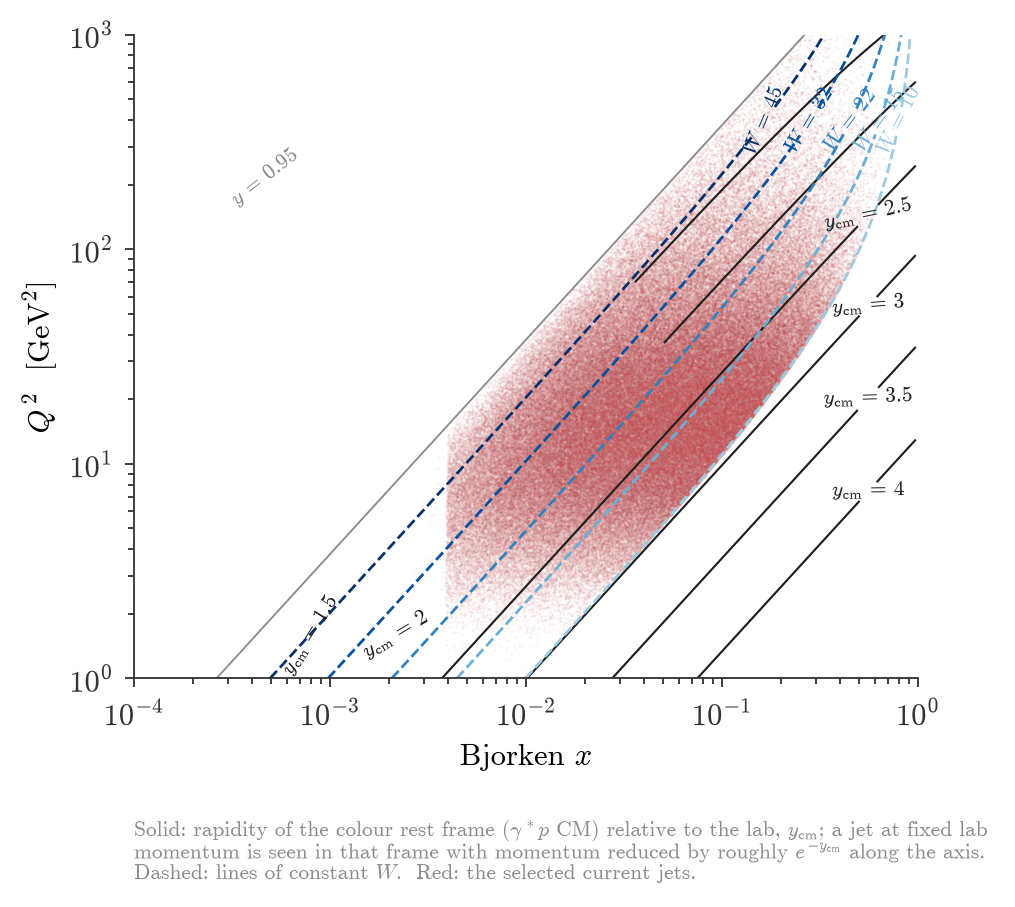
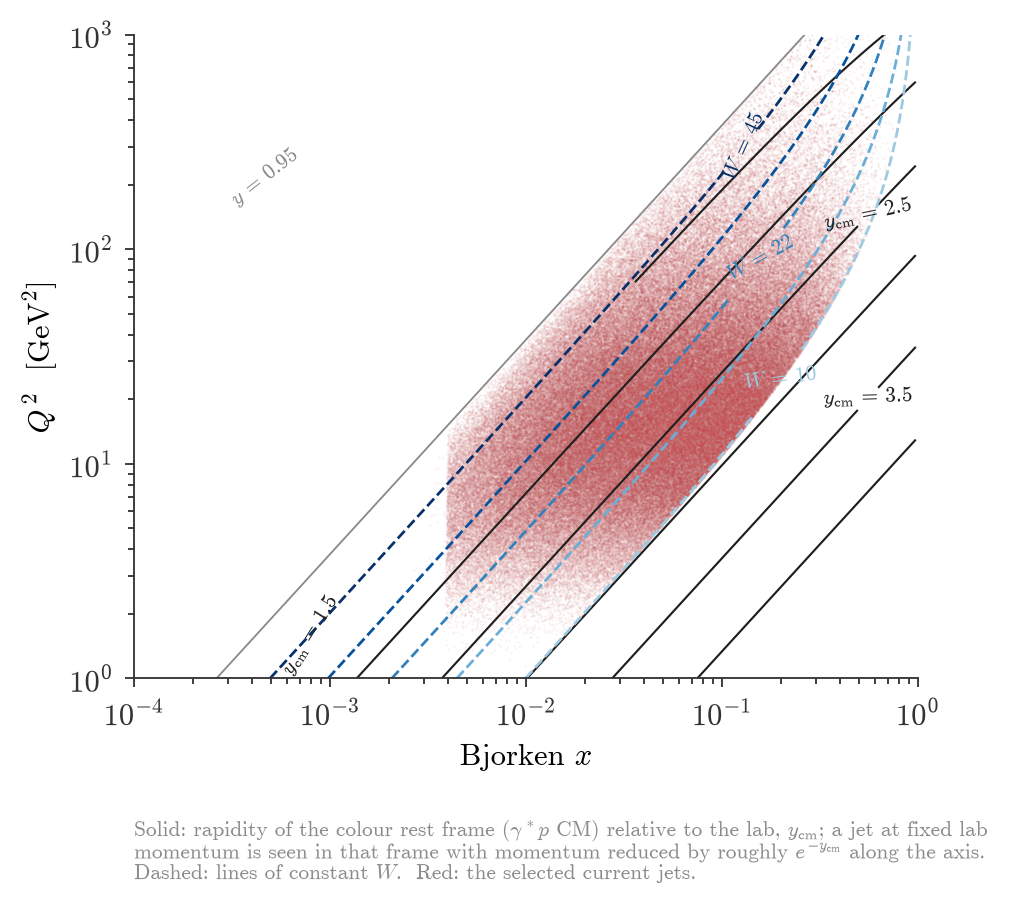
Add a label-collision check to every figure and fix the clashes found
check_labels() compares rendered Text bounding boxes at save time and warns on
overlaps; captions are exempt. Fixed the three it found: soft-drop numbers now
sit beside their markers on the ladder, and the boost map labels only a subset
of contours, placed inside the axes. All 25 figures pass.

Claude-Session: https://claude.ai/code/session_01GCGZdhXzCgSVDHydZwuskM

diff --git a/make_figures.py b/make_figures.py
@@ -172,12 +172,54 @@ class EndLabels:
 
 def caption(ax, text, fontsize=7.5):
     """Small explanatory note under the axes — the figure explains itself."""
-    ax.text(0.0, -0.22, text, transform=ax.transAxes, fontsize=fontsize,
-            color=MUTED, va="top", ha="left", wrap=True)
+    t = ax.text(0.0, -0.22, text, transform=ax.transAxes, fontsize=fontsize,
+                color=MUTED, va="top", ha="left", wrap=True)
+    t._is_caption = True
+
+
+def check_labels(fig, name, frac=0.30):
+    """
+    Warn about overlapping text in a finished figure.
+
+    Compares the rendered bounding boxes of every Text artist that carries ink
+    and reports any pair overlapping by more than ``frac`` of the smaller box.
+    Caption text is excluded: it is a paragraph below the axes and wraps.
+    """
+    fig.canvas.draw()
+    r = fig.canvas.get_renderer()
+    items = []
+    for ax in fig.axes:
+        texts = (ax.texts + [ax.xaxis.label, ax.yaxis.label, ax.title]
+                 + ax.get_xticklabels() + ax.get_yticklabels())
+        for t in texts:
+            if not t.get_visible() or not t.get_text().strip():
+                continue
+            if getattr(t, "_is_caption", False):
+                continue
+            try:
+                bb = t.get_window_extent(renderer=r)
+            except Exception:
+                continue
+            if bb.width > 0 and bb.height > 0:
+                items.append((t.get_text().strip()[:28], bb))
+    hits = []
+    for i in range(len(items)):
+        for j in range(i + 1, len(items)):
+            (ta, ba), (tb, bbx) = items[i], items[j]
+            ox = min(ba.x1, bbx.x1) - max(ba.x0, bbx.x0)
+            oy = min(ba.y1, bbx.y1) - max(ba.y0, bbx.y0)
+            if ox > 0 and oy > 0:
+                small = min(ba.width * ba.height, bbx.width * bbx.height)
+                if ox * oy > frac * small:
+                    hits.append((ta, tb, ox * oy / small))
+    for a, b, f in hits:
+        print(f"    [labels] {name}: {a!r} overlaps {b!r} ({f:.0%})")
+    return hits
 
 
 def save(fig, outdir, name):
     os.makedirs(outdir, exist_ok=True)
+    check_labels(fig, name)
     pdf = os.path.join(outdir, name + ".pdf")
     fig.savefig(pdf, format="pdf", bbox_inches="tight")
     fig.savefig(os.path.join(outdir, name + ".png"), dpi=220, bbox_inches="tight")
@@ -894,7 +936,7 @@ def fig_frame_ladder(beam_paths, outdir, inclusive_slope):
     One panel: how much lab-frame dependence each choice introduces, from the
     inclusive measurement down to the fully frame-defined observable.
     """
-    hemi = [(l, _load_tree(p, "hemisphere", ["W", "Q2", "plab", "n90", "n90_cm", "n_sd", "n_sd_cm"],
+    hemi = [(l, _load_tree(p, "hemisphere", ["W", "Q2", "plab", "n90", "n90_cm", "n_sd", "n_sd_cm", "n_sd_rest"],
                            lambda d: np.isfinite(d["n90"]) & np.isfinite(d["n90_cm"]) & (d["plab"] > 1.0)))
             for l, p in beam_paths]
     labj = [(l, _load_tree(p, "jets_R0p4", ["W", "Q2", "plab", "n90", "n_sd", "lead", "current"],
@@ -903,10 +945,11 @@ def fig_frame_ladder(beam_paths, outdir, inclusive_slope):
     cmj = []
     for l, p in beam_paths:
         d = uproot.open(p)["cmjets"].arrays(
-            ["e_cm", "Q2", "p_lab", "n90_labmom", "n90_cm", "n_sd_lab", "n_sd_cm"], library="np")
+            ["e_cm", "Q2", "p_lab", "n90_labmom", "n90_cm", "n_sd_lab", "n_sd_cm", "n_sd_rest"],
+            library="np")
         d = {"e_hcm": d["e_cm"], "Q2": d["Q2"], "plab": d["p_lab"],
              "n90": d["n90_labmom"], "n90_cm": d["n90_cm"],
-             "n_sd": d["n_sd_lab"], "n_sd_cm": d["n_sd_cm"]}
+             "n_sd": d["n_sd_lab"], "n_sd_cm": d["n_sd_cm"], "n_sd_rest": d["n_sd_rest"]}
         m = np.isfinite(d["n90"]) & np.isfinite(d["n90_cm"])
         cmj.append((l, {k: v[m] for k, v in d.items()}))
 
@@ -918,6 +961,7 @@ def fig_frame_ladder(beam_paths, outdir, inclusive_slope):
         ("$\\gamma^*p$-frame jet,\nfrom lab momenta", _cell_slopes(cmj, "e_hcm", E_CELLS, "n_sd")),
         ("whole current hemisphere,\nfrom frame momenta", _cell_slopes(hemi, "W", BEAM_CELLS_W, "n_sd_cm")),
         ("$\\gamma^*p$-frame jet,\nfrom frame momenta", _cell_slopes(cmj, "e_hcm", E_CELLS, "n_sd_cm")),
+        ("either object,\nin its own rest frame", _cell_slopes(hemi, "W", BEAM_CELLS_W, "n_sd_rest")),
     ]
     sd_by_name = dict(rungs_sd)
     rungs = [
@@ -927,12 +971,23 @@ def fig_frame_ladder(beam_paths, outdir, inclusive_slope):
         ("$\\gamma^*p$-frame jet,\nfrom lab momenta", _cell_slopes(cmj, "e_hcm", E_CELLS, "n90"), INK),
         ("whole current hemisphere,\nfrom frame momenta", _cell_slopes(hemi, "W", BEAM_CELLS_W, "n90_cm"), "#2f6b4f"),
         ("$\\gamma^*p$-frame jet,\nfrom frame momenta", _cell_slopes(cmj, "e_hcm", E_CELLS, "n90_cm"), "#2f6b4f"),
+        ("either object,\nin its own rest frame", [], "#2f6b4f"),
     ]
-    fig, ax = plt.subplots(figsize=(5.4, 3.9))
+    fig, ax = plt.subplots(figsize=(5.4, 4.5))
     ax.axvline(0.0, color=FAINT, lw=0.9, zorder=0)
     ys = np.arange(len(rungs))[::-1]
     for y, (name, sl, col) in zip(ys, rungs):
         sl = np.asarray(sl, float)
+        if len(sl) == 0:
+            sd0 = sd_by_name.get(name)
+            if sd0 is not None and len(sd0):
+                sd0 = np.asarray(sd0, float)
+                m0 = np.median(sd0)
+                ax.plot([sd0.min(), sd0.max()], [y, y], color=SD, lw=1.0, alpha=0.35)
+                ax.plot([m0], [y], marker="s", ms=4.5, color=SD, mec="white", mew=0.6, zorder=3)
+                ax.annotate(f"{m0:+.3f}", (m0, y), xytext=(7, 0), textcoords="offset points",
+                            ha="left", va="center", fontsize=7, color=SD)
+            continue
         med = np.median(sl)
         if len(sl) > 1:
             ax.plot([sl.min(), sl.max()], [y + 0.13, y + 0.13], color=col, lw=1.0, alpha=0.35,
@@ -949,8 +1004,9 @@ def fig_frame_ladder(beam_paths, outdir, inclusive_slope):
             ax.plot([max(msd, -0.60)], [y - 0.17], marker="s", ms=4.5, color=SD, mec="white",
                     mew=0.6, zorder=3)
             txt = f"{msd:+.3f}" + ("  (off scale)" if msd < -0.62 else "")
-            ax.annotate(txt, (max(msd, -0.60), y - 0.17), xytext=(0, -13),
-                        textcoords="offset points", ha="center", fontsize=7, color=SD)
+            ax.annotate(txt, (max(msd, -0.60), y - 0.17), xytext=(7, 0),
+                        textcoords="offset points", ha="left", va="center",
+                        fontsize=7, color=SD)
     ax.set_yticks(ys)
     ax.set_yticklabels([r[0] for r in rungs], fontsize=7.5)
     ax.tick_params(axis="y", length=0)
@@ -1323,15 +1379,19 @@ def fig_boost_map(jets, outdir):
 
     y_levels = [1.5, 2, 2.5, 3, 3.5, 4]
     cs = ax.contour(X, Q2g, yh, levels=y_levels, colors=INK, linewidths=0.7)
-    pos = [p for p in ([along_row(yh, 1.5, 1.6), along_row(yh, 2.0, 1.6)]
-                       + [along_col(yh, lv, 0.55) for lv in (2.5, 3, 3.5, 4)]) if p is not None]
-    ax.clabel(cs, fmt=lambda v: rf"$y_{{\rm cm}}$ = {v:g}", fontsize=7, inline=True,
-              manual=pos)
+    label_y = [1.5, 2.5, 3.5]
+    pos = [p for p in ([along_row(yh, 1.5, 1.6)]
+                       + [along_col(yh, lv, 0.55) for lv in (2.5, 3.5)]) if p is not None]
+    ax.clabel(cs, levels=label_y, fmt=lambda v: rf"$y_{{\rm cm}}$ = {v:g}", fontsize=7,
+              inline=True, manual=pos)
     W_levels = [10, 15, 22, 32, 45]
     Wl = ax.contour(X, Q2g, np.sqrt(W2), levels=W_levels, colors=W_COLORS,
                     linewidths=0.9, linestyles="--")
-    pos = [p for p in (along_row(np.sqrt(W2), lv, 400.0) for lv in W_levels) if p is not None]
-    ax.clabel(Wl, fmt=lambda v: rf"$W$ = {v:g}", fontsize=7, inline=True, manual=pos)
+    label_W = [10, 22, 45]
+    pos = [p for p in (along_row(np.sqrt(W2), lv, q2)
+                       for lv, q2 in zip(label_W, (25.0, 90.0, 300.0))) if p is not None]
+    ax.clabel(Wl, levels=label_W, fmt=lambda v: rf"$W$ = {v:g}", fontsize=7, inline=True,
+              manual=pos)
     ax.contour(X, Q2g, Y, levels=[0.95], colors=[MUTED], linewidths=0.6)
     ax.text(3e-4, 1.6e2, r"$y$ = 0.95", fontsize=7, color=MUTED, rotation=38)
     ax.scatter(jets["x"], jets["Q2"], s=0.5, color=ACCENT, alpha=0.08, lw=0, rasterized=True)
